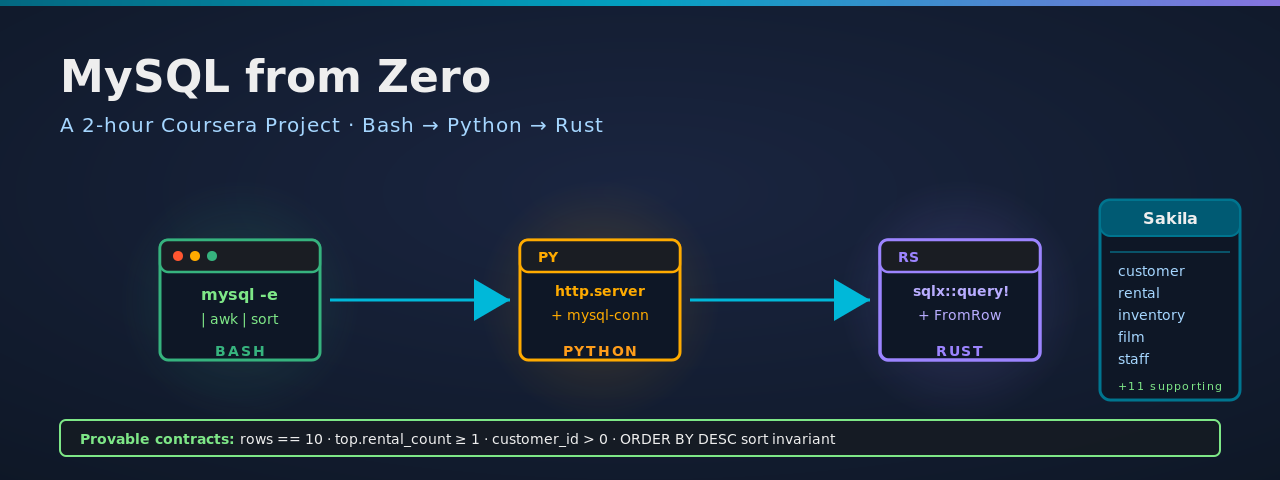
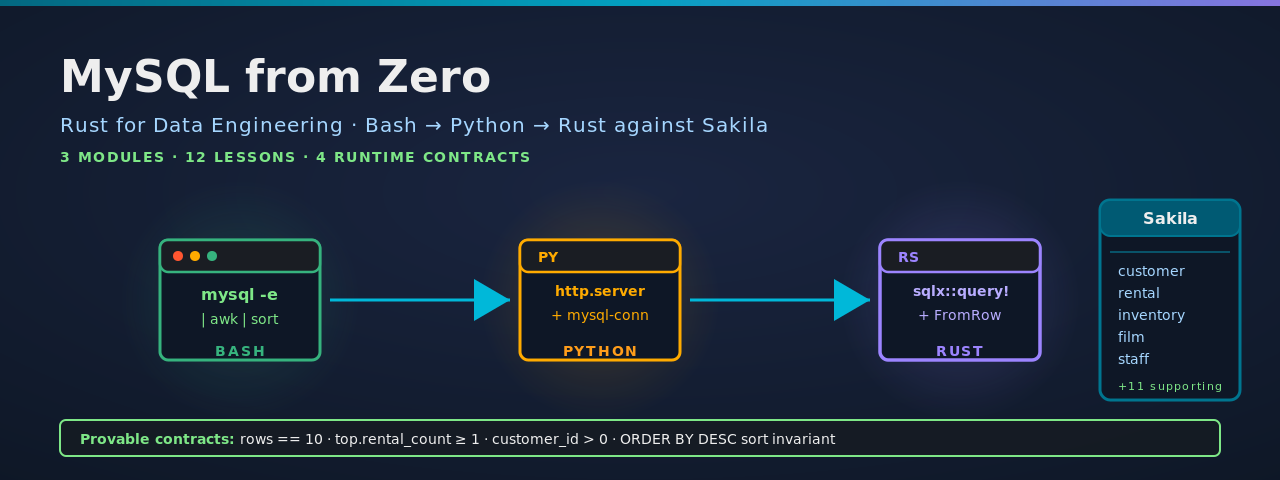
docs: position README + hero as Rust for Data Engineering specialization (#5)
The standalone-Coursera-Project framing was stale after the 3-module
re-scope. Update README to:
- Mention specialization membership (Rust for Data Engineering)
- Reflect 3-module / 12-lesson / 4-contract reality
- Replace the M1-M5 outline with the actual M1 (Fundamentals) /
  M2 (Schema, JOINs, Indexes) / M3 (Typed Rust Client with sqlx) shape
- Document the four runtime contracts inline + link to mysql-rust-v1.yaml

Hero subtitle swap: "A 2-hour Coursera Project" → "Rust for Data
Engineering · Bash → Python → Rust against Sakila", plus a
"3 MODULES · 12 LESSONS · 4 RUNTIME CONTRACTS" badge.
Visual chassis (3-stop pipeline, Sakila pillar, contracts strip) is
unchanged — still byte-stable with the c12 lesson masters.

Changed region(s): [[0.0312, 0.25, 0.5938, 0.2812], [0.0312, 0.3125, 0.4375, 0.3438]]

diff --git a/README.md b/README.md
@@ -1,5 +1,5 @@
 <p align="center">
-  <img src="assets/hero.svg" alt="mysql-from-zero — Bash → Python → Rust against Sakila, with sqlx::query!() compile-time gating" width="1280" />
+  <img src="assets/hero.svg" alt="mysql-from-zero — Sakila to sqlx::MySqlPool, three modules in the Rust for Data Engineering specialization" width="1280" />
 </p>
 
 [![CI](https://github.com/paiml/mysql-from-zero/actions/workflows/ci.yml/badge.svg)](https://github.com/paiml/mysql-from-zero/actions/workflows/ci.yml)
@@ -10,17 +10,14 @@
 
 # mysql-from-zero
 
-Companion repo for the standalone Coursera course **MySQL from Zero**.
-
-A from-scratch MySQL course aimed at data engineers — schema design,
-indexing, query plans, replication, and a final module on connecting
-from Rust via `sqlx` and `mysql_async`.
+Companion repo for **MySQL from Zero**, a course in the Coursera **Rust for Data Engineering** specialization (Pragmatic AI Labs · Noah Gift). Three modules, twelve lessons, end-to-end from `mysql -u root -p` to a typed Rust client built on `sqlx::MySqlPool` with four runtime `assert!` contracts.
 
 ## What's in this repo
 
-- `compose.yml` — local MySQL 8.4 node with general + slow-query logs on
-- `sql/` — schema bootstrap, query examples, index demos
-- `crates/mysql-rust/` — Rust workspace member showing typed access via sqlx
+- `compose.yml` — local MySQL 8.4 node with `log-bin-trust-function-creators` on so the Sakila stored functions load cleanly
+- `sql/` — schema bootstrap, the customer→rental→inventory→film traversal, and the indexes the EXPLAIN-reading lesson references
+- `crates/mysql-rust/` — Rust workspace member with the `top_customers_sqlx` example the closing lesson walks through
+- `contracts/mysql-rust-v1.yaml` — provable contracts the runtime asserts enforce, lintable with `pv lint contracts/`
 
 ## Quick start
 
@@ -32,22 +29,11 @@ make sakila    # download + load Sakila schema and data into the container
 make test      # cargo test --workspace
 ```
 
-Run `make help` to see every target. `make sakila` is idempotent — once
-`sakila-db/sakila-data.sql` exists locally, re-running just re-loads
-the schema (useful if you `DROP DATABASE` and want a fresh seed). To
-nuke the database entirely (volume + container), run `make nuke` then
-`make up && make sakila`.
+Run `make help` to see every target. `make sakila` is idempotent — once `sakila-db/sakila-data.sql` exists locally, re-running just re-loads the schema (useful if you `DROP DATABASE` and want a fresh seed). To nuke the database entirely (volume + container), run `make nuke` then `make up && make sakila`.
 
-Re-running just re-loads
-the schema (useful if you `DROP DATABASE` and want a fresh seed).
+## Closing demo: `top_customers_sqlx`
 
-## Quick start — `top_customers_sqlx` Rust demo
-
-The `top_customers_sqlx` example closes the loop the Duke videos open: the M1
-`bash-pipelines-with-mysql` lesson surfaces the top renters via `mysql -e ...`,
-the `mysql-to-python-webserver` lesson serves the same answer from a Python
-`http.server`, and this binary returns the identical row set through typed Rust
-via `sqlx::MySqlPool`. Bring the database up first, then run the demo:
+The `top_customers_sqlx` example closes the loop the course opens. Module 1's `bash-pipelines-with-mysql` lesson surfaces the top renters via `mysql -e ...`, the `mysql-to-python-webserver` lesson serves the same answer from a Python `http.server`, Module 2 walks the customer→rental→inventory→film traversal as a JOIN, and this binary returns the identical row set through typed Rust via `sqlx::MySqlPool`:
 
 ```bash
 make up && make sakila        # MySQL container + Sakila loaded (one-time)
@@ -68,19 +54,28 @@ Sample output (top of the JSON array):
 ]
 ```
 
-The demo expects the compose.yml-provided Sakila to be running on
-`127.0.0.1:3306` with `user=app password=appdev db=sakila`. Override with
-`MYSQL_URL=mysql://...` if your database lives elsewhere. Embedded runtime
-`assert!` contracts fail loudly if the query returns fewer than 10 rows, the
-top customer has 0 rentals, or the result is not sorted by rental count.
+The demo expects the compose.yml-provided Sakila to be running on `127.0.0.1:3306` with `user=app password=appdev db=sakila`. Override with `MYSQL_URL=mysql://...` if your database lives elsewhere. Embedded runtime `assert!` contracts fail loudly if the query returns fewer than 10 rows, the top customer has 0 rentals, any `customer_id` is non-positive, or the result is not sorted by rental count descending.
 
 ## Course outline
 
-- **M1** — MySQL Foundations (install, CLI, Sakila import)
-- **M2** — Schema Design and Data Types (PKs, FKs, normalization)
-- **M3** — Querying (SELECT, JOIN, aggregates, window functions)
-- **M4** — Indexes, EXPLAIN, and Performance (B-tree, plans, slow log)
-- **M5** — Operations and the Rust Client (backups, replication, sqlx)
+Twelve lessons across three modules:
+
+- **Module 1 — MySQL Fundamentals** (7 lessons). The mysql terminal client, mysqldump backup-and-restore, importing Sakila, INSERT/UPDATE/DELETE on a real schema, mysql -e shell pipelines, and a Python http.server backed by a live database.
+- **Module 2 — Sakila Schema, JOINs, and Indexes** (3 lessons). The 16-table Sakila entity-relationship diagram, INNER vs LEFT JOIN with row-by-row materialization, and B-tree indexes paired with EXPLAIN plan reading.
+- **Module 3 — Typed Rust Client with sqlx** (2 lessons). The Rust↔MySQL type mapping cheatsheet (FromRow correspondences and the three traps to avoid), and the closing `top_customers_sqlx` demo that runs the customer-rental query against this Docker Compose Sakila with four runtime `assert!` contracts.
+
+The full course ships as part of the **Rust for Data Engineering** specialization on Coursera, alongside ETL Pipelines with Rust, SQL Databases with Rust (Postgres-flavored), Polars from Zero, Rust Serverless, Vector Databases with Rust, and more.
+
+## Provable contracts
+
+Every demo binary in this repo carries runtime `assert!` contracts that fail loudly when data drifts. The four invariants the closing example enforces are documented in [`contracts/mysql-rust-v1.yaml`](contracts/mysql-rust-v1.yaml):
+
+1. **Row count exact** — `LIMIT 10` must return exactly 10 rows on the canonical Sakila fixture
+2. **Top renter has rentals** — `rows[0].rental_count >= 1` (sentinel that the LEFT JOIN actually matched)
+3. **Customer IDs positive** — every `r.customer_id > 0` (AUTO_INCREMENT integrity)
+4. **Sort invariant** — `rows[i].rental_count >= rows[i+1].rental_count` (ORDER BY DESC was preserved)
+
+Lint with `pv lint contracts/` (from the [aprender-contracts-cli](https://crates.io/crates/aprender-contracts-cli) crate). The CI gate runs this on every push.
 
 ## License
 
